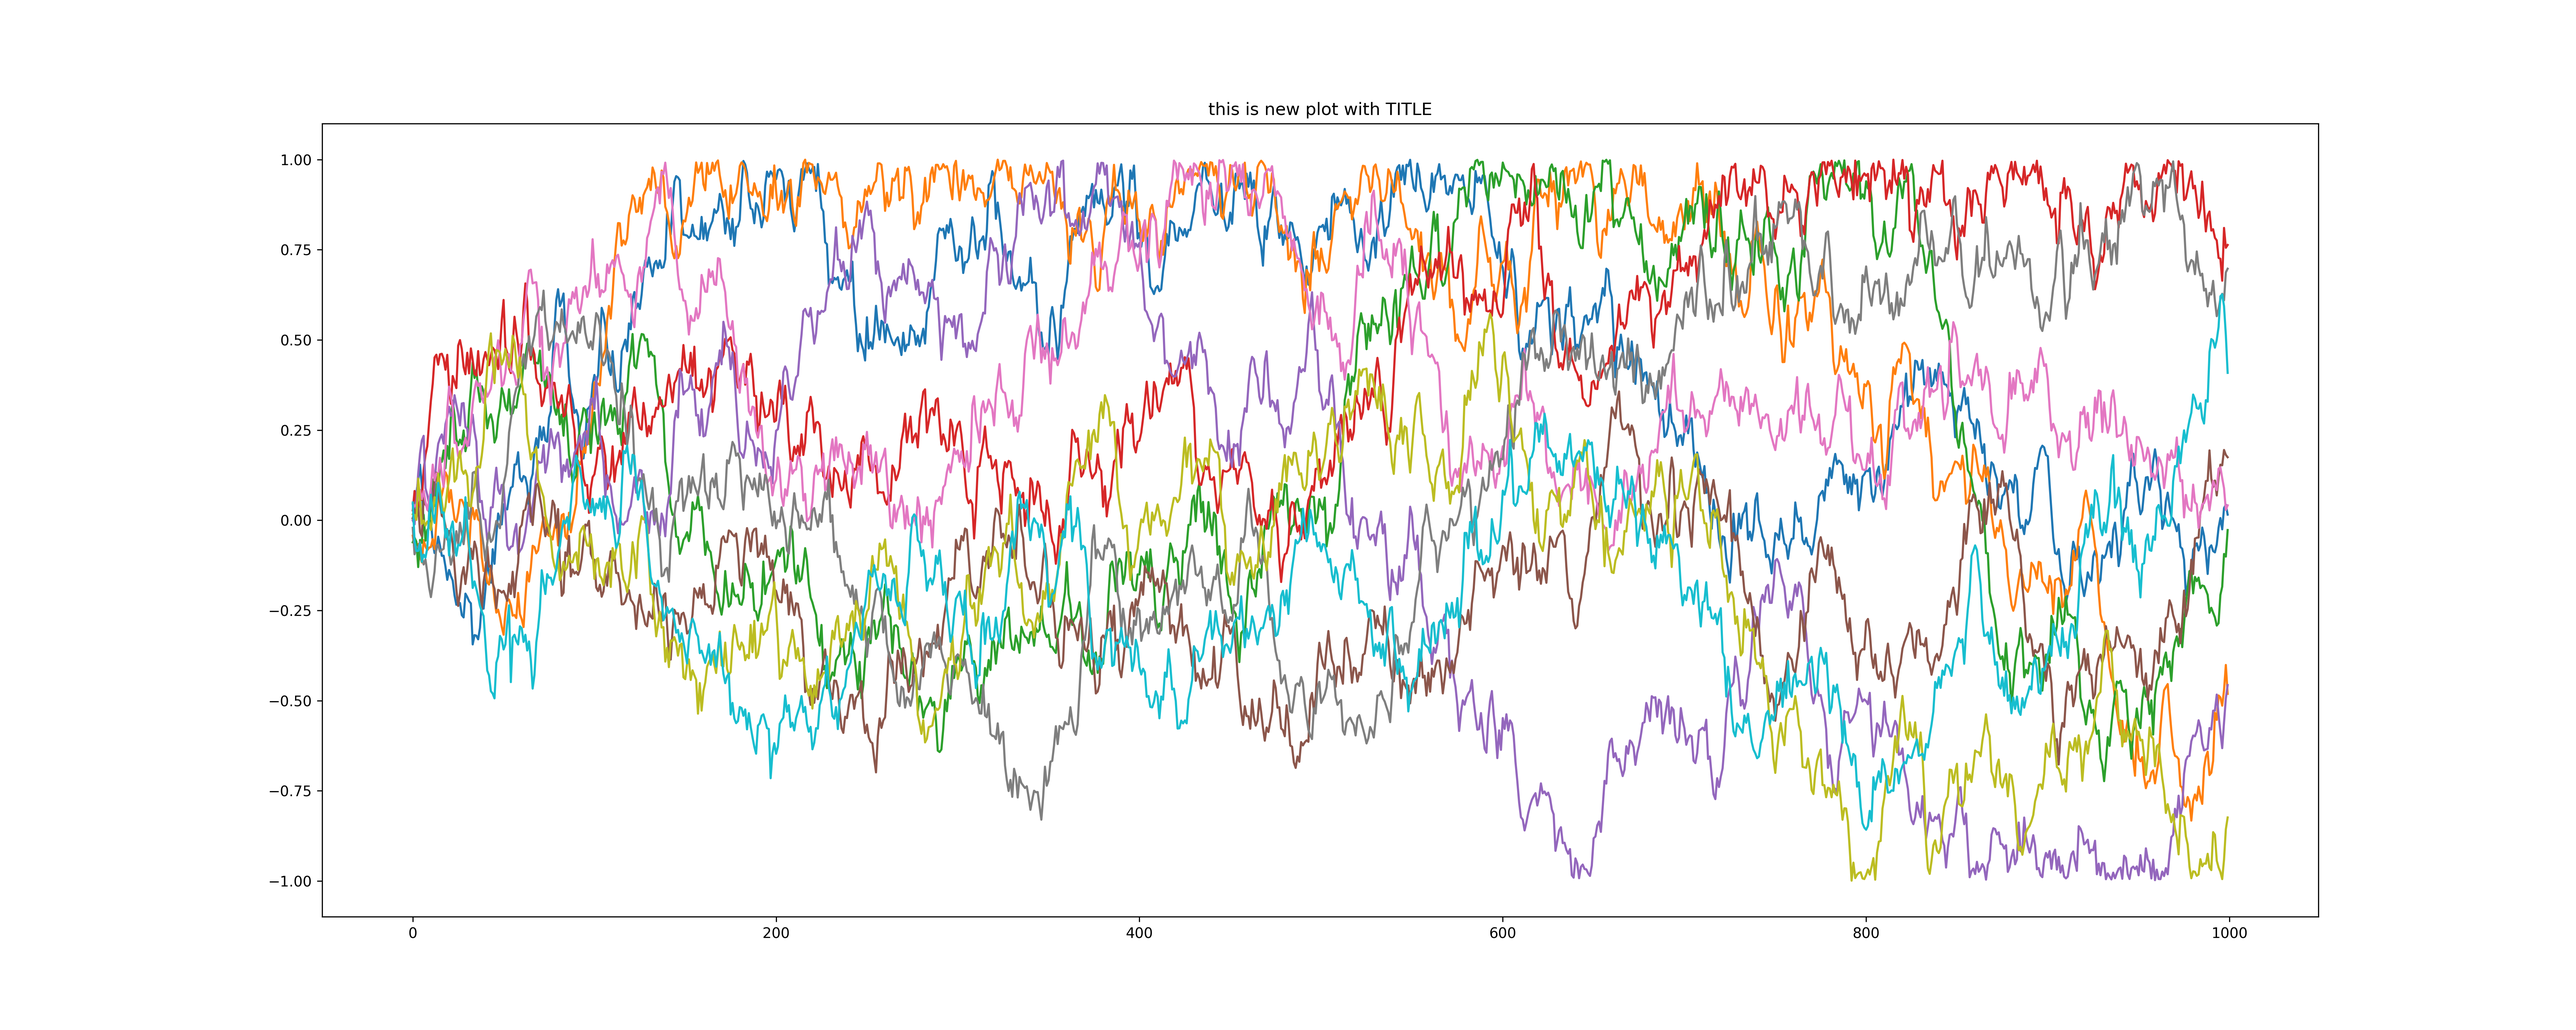
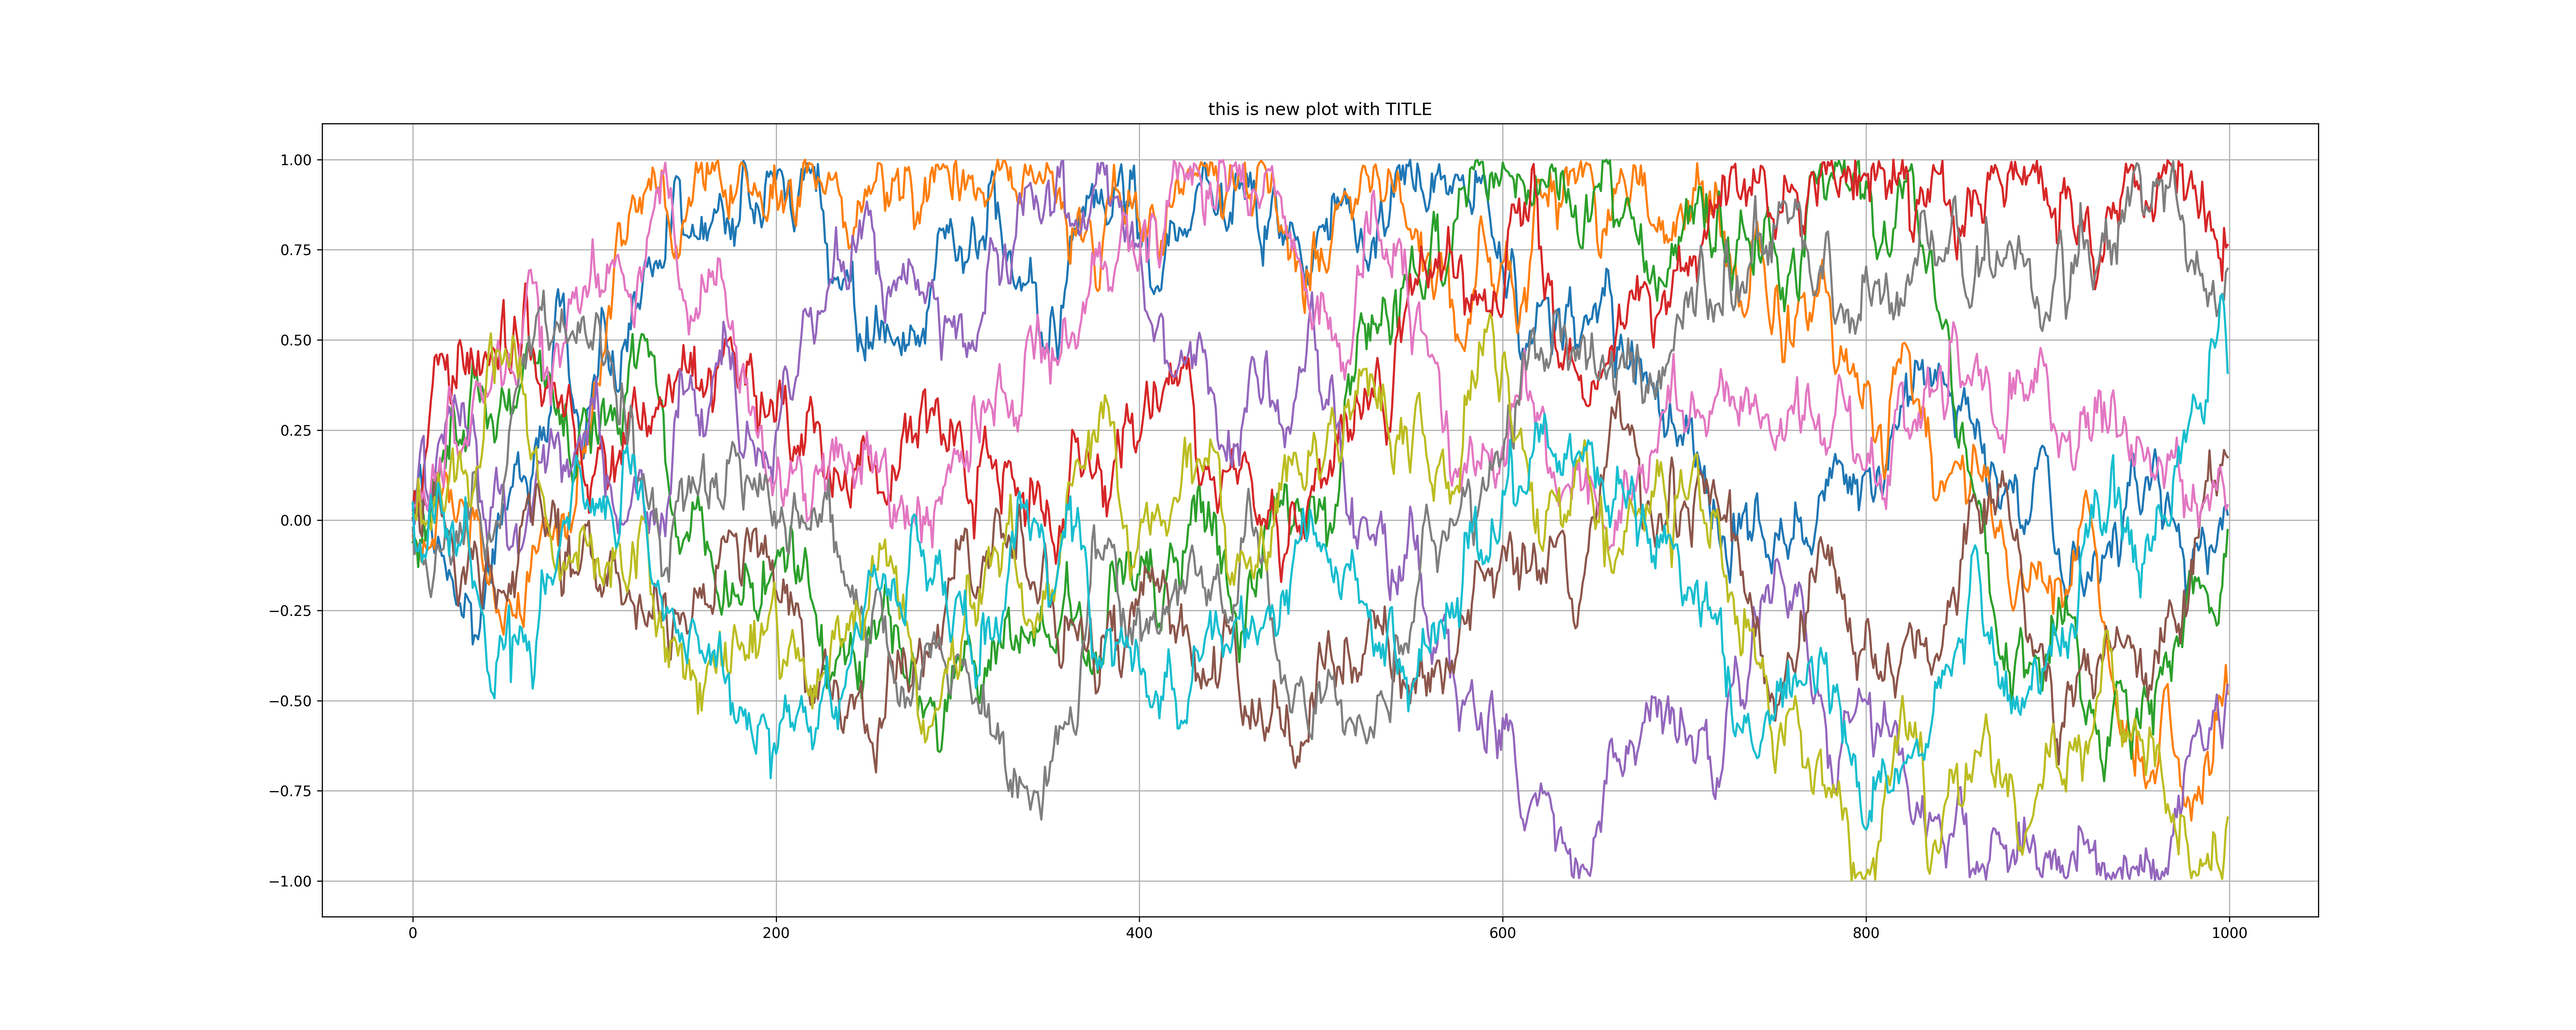
trajectories are back!

diff --git a/plot_diffusion.py b/plot_diffusion.py
@@ -11,7 +11,7 @@ def draw_trajectories():
 
     print(os.getcwd())
 
-    diffusion_trajectries = np.loadtxt("data/diffusion_trajectories.txt")
+    diffusion_trajectries = np.loadtxt("data/diffusion_trajectories_refl.txt")
 
     plt.grid()
 
@@ -20,8 +20,8 @@ def draw_trajectories():
 
     plt.title("this is new plot with TITLE")
 
-    temp_path = "figures/diffusion_trajectories_tmp.png"
-    final_path = "figures/diffusion_trajectories.png"
+    temp_path = "figures/diffusion_trajectories_refl_tmp.png"
+    final_path = "figures/diffusion_trajectories_refl.png"
 
     plt.savefig(temp_path)
     plt.close()
@@ -54,13 +54,6 @@ def draw_histogram(style: str = "line"):
     ax.set_xlim(-1, 1)
     ax.grid()
 
-    if style == "line":
-        (line,) = ax.plot(centers, density)
-    elif style == "bars":
-        bars = ax.bar(centers, density, width=bin_width, linewidth=1)
-    else:
-        raise ValueError(f"Unknown style: {style}. Available options'line' and 'bars'")
-
     def run_hist(data, bars):
         # update the data
         counts, _ = data
@@ -77,10 +70,14 @@ def draw_histogram(style: str = "line"):
         line.set_data(centers, density)
         return (line,)
 
-    run_line_partial = functools.partial(run_line, line=line)
-    run_hist_partial = functools.partial(run_hist, bars=bars)
-
-    run = run_line_partial if style == "line" else run_hist_partial
+    if style == "line":
+        (line,) = ax.plot(centers, density)
+        run = functools.partial(run_line, line=line)
+    elif style == "bars":
+        bars = ax.bar(centers, density, width=bin_width, linewidth=1)
+        run = functools.partial(run_hist, bars=bars)
+    else:
+        raise ValueError(f"Unknown style: {style}. Available options'line' and 'bars'")
 
     total_frames = len(counts_list)
 
@@ -106,10 +103,11 @@ def draw_histogram(style: str = "line"):
             progress_callback=update_progress,
         )
 
+
 def main():
     draw_trajectories()
     draw_histogram(style="line")
 
+
 if __name__ == "__main__":
     main()
-

diff --git a/single_diffusion.c b/single_diffusion.c
@@ -34,10 +34,6 @@ void diffuse_save_histograms(double start, double lower_bound, double upper_boun
                                 "");
         write_double_array_to_file(bin_bounds, n_bins + 1,
                                    "../data/diffusion_hist_refl.txt", "a", "");
-        if (i < 4)
-            write_double_array_to_file(coordinates, n_realizations,
-                                       "../data/diffusion_trajectories.txt", "a", "");
-
         free(bin_bounds);
         free(counts);
     }
@@ -62,7 +58,7 @@ void diffuse_save_trajectories(double start, double lower_bound, double upper_bo
             trajectory[j] = coordinate;
         }
 
-        write_double_array_to_file(trajectory, n_t, "../data/diffusion_trajectories.txt",
+        write_double_array_to_file(trajectory, n_t, "../data/diffusion_trajectories_refl.txt",
                                    "a", "");
         free(trajectory);
     }
